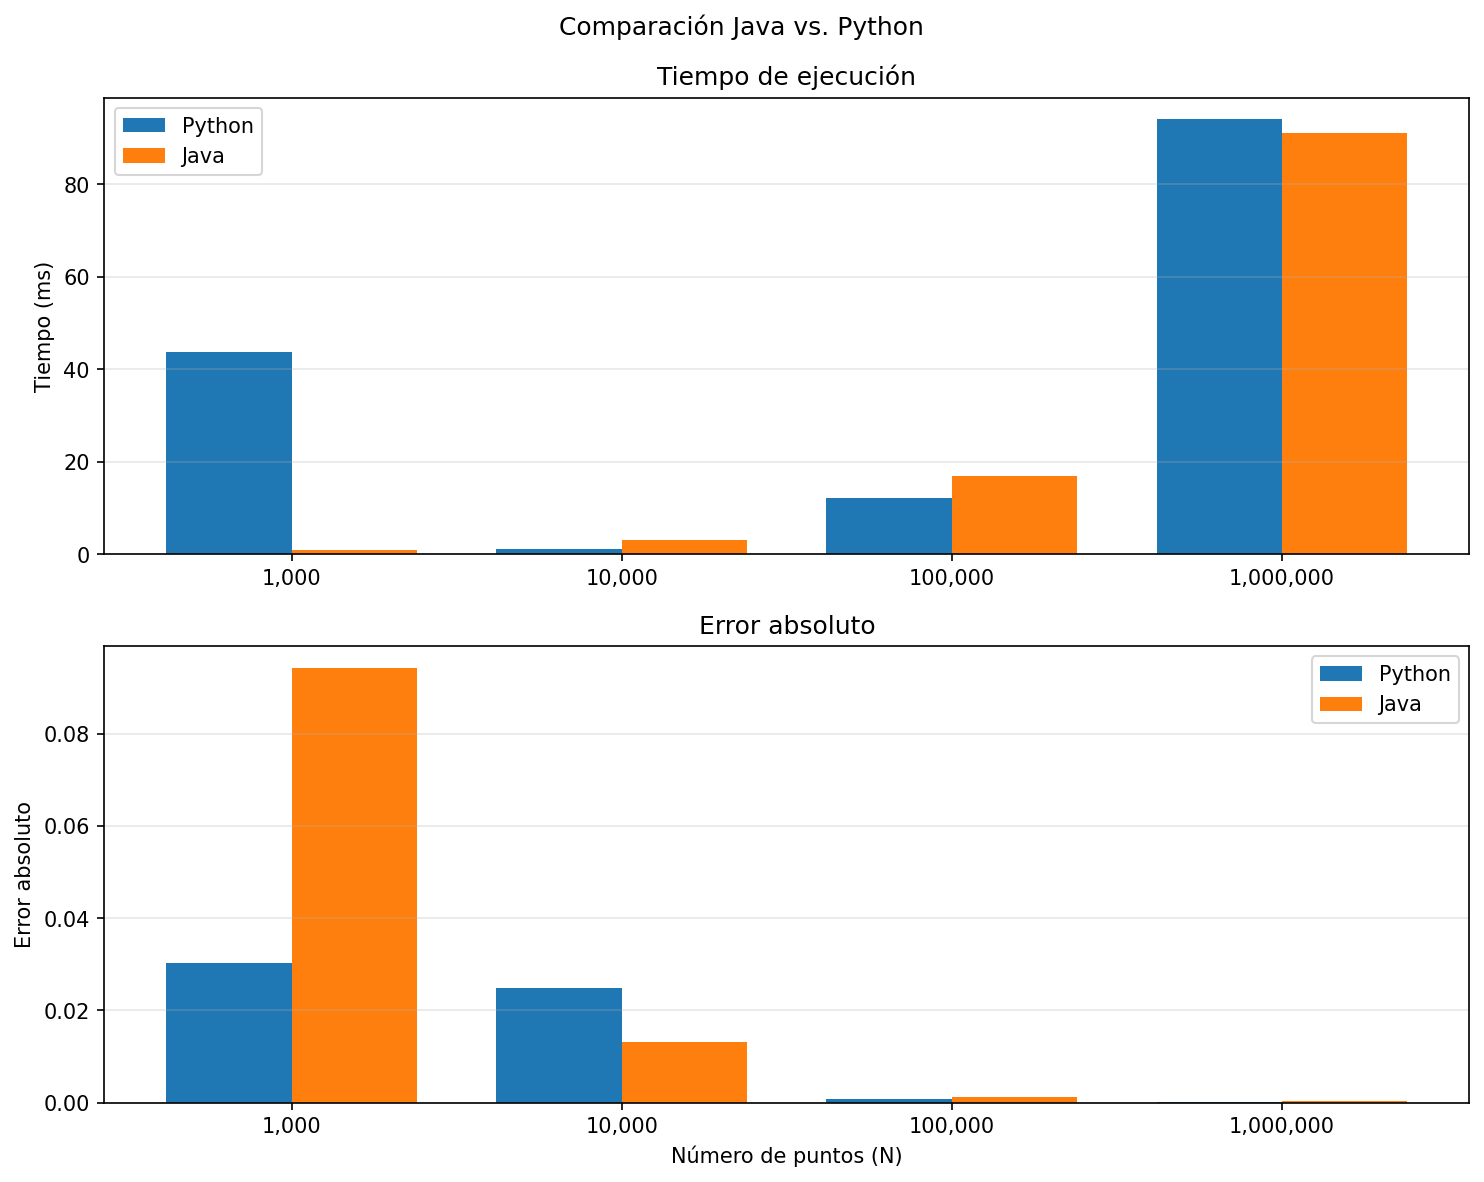
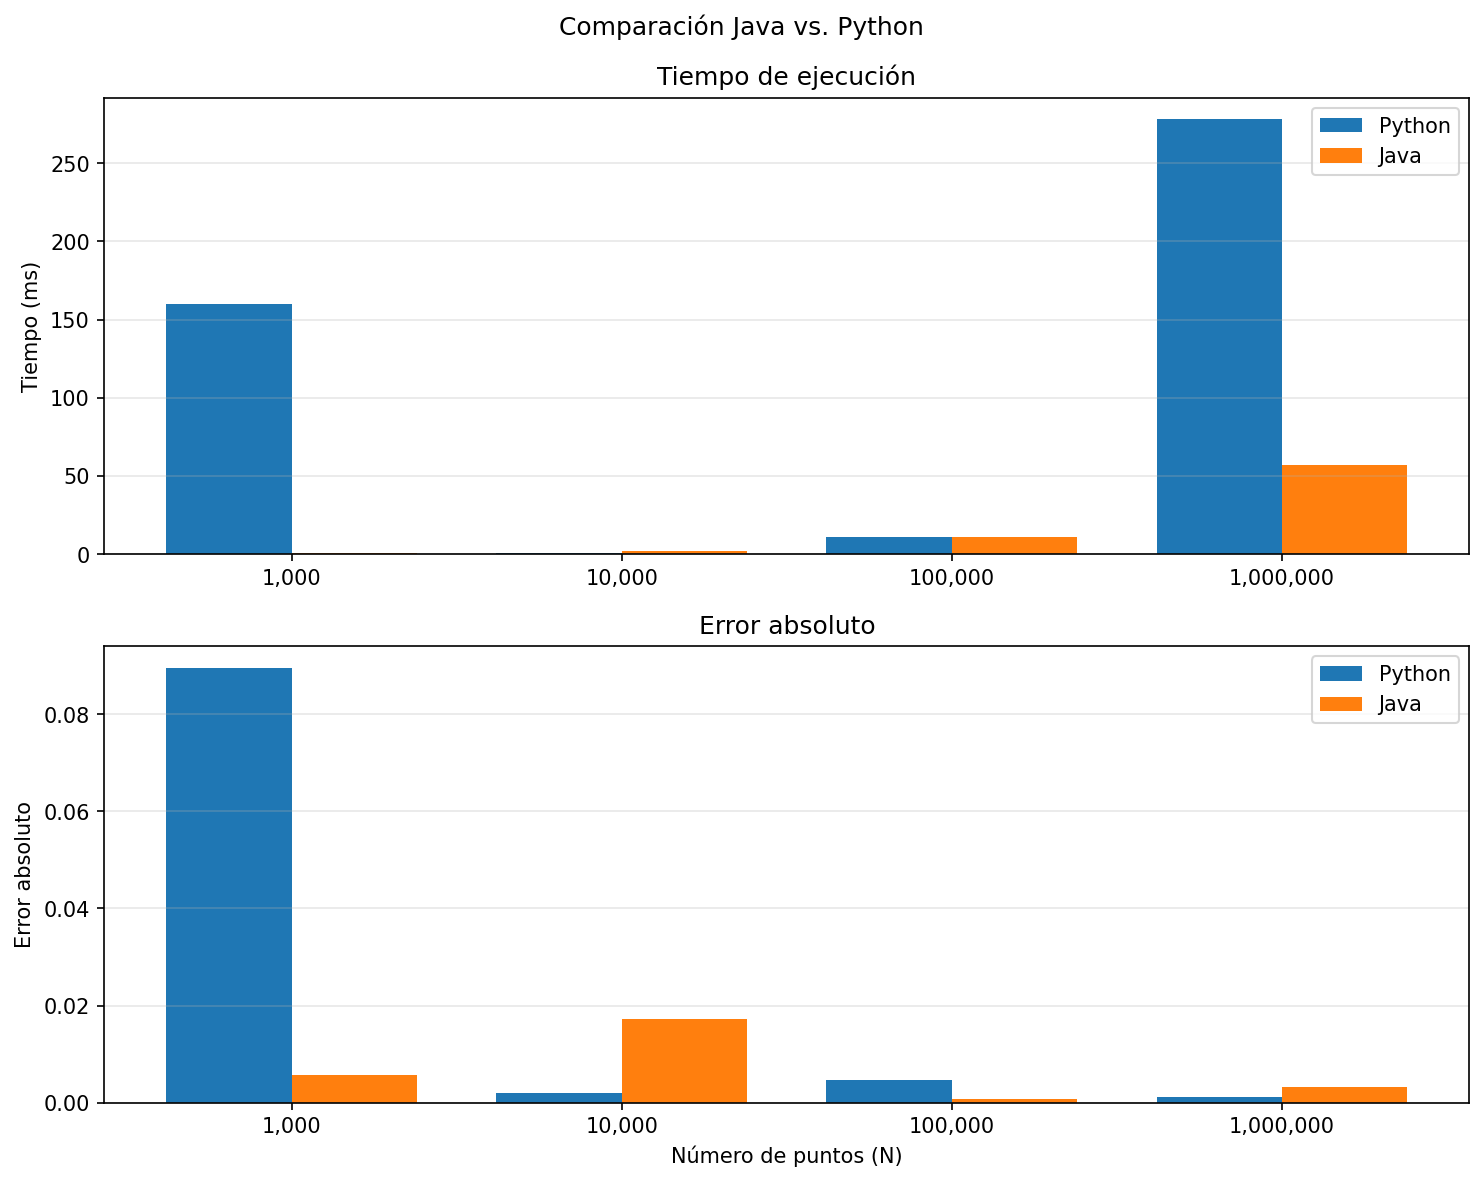
APE7-ArchivosActualizados

diff --git a/APE7/java/Main.java b/APE7/java/Main.java
@@ -1,35 +1,30 @@
 import controlador.MonteCarloController;
 import vista.MonteCarloView;
 
-import java.nio.file.Files;
-import java.nio.file.Path;
 import java.io.IOException;
 import java.nio.file.Paths;
 
 public class Main {
     public static void main(String[] args) throws IOException {
-        Path raizProyecto = encontrarRaizProyecto();
         MonteCarloController controlador = new MonteCarloController();
         MonteCarloController.ResultadoSimulacion[] resultados = controlador.procesarSimulaciones();
-        MonteCarloView vista = new MonteCarloView();
-        vista.mostrarResultados(resultados);
-        Path archivoCsv = raizProyecto.resolve(Paths.get("java", "output", "resultados_java.csv"));
-        Path directorioImg = raizProyecto.resolve("img");
-        vista.guardarResultadosCsv(resultados, archivoCsv);
-        System.out.println("Datos Java guardados en " + archivoCsv);
-        System.out.println("Gráfica Java guardada en " +
-                vista.generarGraficaConvergencia(resultados, directorioImg));
-    }
 
-    private static Path encontrarRaizProyecto() {
-        Path directorio = Paths.get("").toAbsolutePath();
-        while (directorio != null) {
-            if (Files.isDirectory(directorio.resolve("java"))
-                    && Files.isDirectory(directorio.resolve("python"))) {
-                return directorio;
-            }
-            directorio = directorio.getParent();
+        System.out.println("==========================================================================");
+        System.out.println(" N          | Pi Estimado      | Error Absoluto   | Tiempo Java (ms)     ");
+        System.out.println("==========================================================================");
+        for (MonteCarloController.ResultadoSimulacion resultado : resultados) {
+            System.out.printf("%-11d | %-16.6f | %-16.6f | %-20d%n",
+                    resultado.getN(),
+                    resultado.getPiEstimado(),
+                    resultado.getErrorAbsoluto(),
+                    resultado.getTiempoMs());
         }
-        throw new IllegalStateException("Ejecuta Main desde el proyecto APE7 o una de sus carpetas.");
+        System.out.println("==========================================================================");
+
+        MonteCarloView vista = new MonteCarloView();
+        vista.guardarResultadosCsv(resultados, Paths.get("output", "resultados_java.csv"));
+        System.out.println("Datos Java guardados en output\\resultados_java.csv");
+        System.out.println("Gráfica Java guardada en " +
+                vista.generarGraficaConvergencia(resultados, Paths.get("..", "img")));
     }
 }

diff --git a/APE7/java/vista/MonteCarloView.java b/APE7/java/vista/MonteCarloView.java
@@ -28,21 +28,6 @@ public class MonteCarloView {
     private static final Color ROJO = new Color(190, 55, 55);
     private static final double PI = Math.PI;
 
-    public void mostrarResultados(MonteCarloController.ResultadoSimulacion[] resultados) {
-        System.out.println("==========================================================================");
-        System.out.println(" N          | Pi Estimado      | Error Absoluto   | Tiempo Java (ms)     ");
-        System.out.println("==========================================================================");
-
-        for (MonteCarloController.ResultadoSimulacion resultado : resultados) {
-            System.out.printf("%-11d | %-16.6f | %-16.6f | %-20d%n",
-                    resultado.getN(),
-                    resultado.getPiEstimado(),
-                    resultado.getErrorAbsoluto(),
-                    resultado.getTiempoMs());
-        }
-        System.out.println("==========================================================================");
-    }
-
     public Path guardarResultadosCsv(
             MonteCarloController.ResultadoSimulacion[] resultados,
             Path archivoCsv) throws IOException {

diff --git a/APE7/README.md b/APE7/README.md
@@ -14,7 +14,7 @@ APE7/
 ├── requirements.txt
 ├── Documento/
 ├── Guia/
-├── img/                              # Se genera al ejecutar Java y Python
+├── img/
 │   ├── convergencia_python.png
 │   ├── convergencia_java.png
 │   └── comparativa_java_python.png
@@ -49,13 +49,12 @@ APE7/
 - `python/main.py`: ejecuta las simulaciones, imprime la tabla de Python y
   solicita a la vista la generación de las gráficas.
 - `java/Main.java`: inicia la simulación y delega la presentación en la vista
-  Java.
+  gráfica después de imprimir la tabla.
 - `java/controlador/MonteCarloController.java`: coordina las simulaciones Java
   y reúne sus resultados.
 - `java/modelo/MonteCarloModel.java`: genera puntos aleatorios y calcula la
   estimación de π, el error absoluto y el tiempo en Java.
-- `java/vista/MonteCarloView.java`: presenta en consola la tabla de resultados
-  generada por Java, guarda sus resultados en CSV y crea la gráfica de
+- `java/vista/MonteCarloView.java`: guarda los resultados Java en CSV y crea la gráfica de
   convergencia Java con Java2D.
 - `requirements.txt`: declara NumPy, Pandas y Matplotlib.
 
@@ -88,25 +87,31 @@ Se requiere Python 3 y un JDK instalado. Desde la raíz del proyecto:
 
 ### Java
 
+Con JDK 22 o superior, puedes ejecutar todo desde la carpeta `java` con el
+lanzador de archivos fuente. Compila las clases necesarias al vuelo, sin
+carpeta `out` ni archivos `.class` previos:
+
 ```powershell
-javac -encoding UTF-8 -d .\out .\java\Main.java .\java\controlador\MonteCarloController.java .\java\modelo\MonteCarloModel.java .\java\vista\MonteCarloView.java
-java -cp .\out Main
+Push-Location .\java
+java Main.java
+Pop-Location
 ```
 
-`Main` entrega los resultados del controlador a `MonteCarloView`. La vista
-imprime la tabla, crea `img/convergencia_java.png` y guarda
-`java/output/resultados_java.csv` para que Python pueda usar los mismos datos.
-Si estás en la carpeta `java`, primero recompila las clases antes de ejecutar
-`java -cp . Main`; el comando `java` no compila automáticamente los archivos
-`.java`:
+`Main` imprime la tabla y llama a `MonteCarloView`, que crea
+`img/convergencia_java.png` y guarda `java/output/resultados_java.csv`.
+
+Si prefieres usar `java -cp . Main` o tienes un JDK anterior, primero compila
+los fuentes desde `java` y luego ejecuta la clase:
 
 ```powershell
-javac -encoding UTF-8 Main.java controlador\MonteCarloController.java modelo\MonteCarloModel.java vista\MonteCarloView.java
+Push-Location .\java
+javac -encoding UTF-8 -d . Main.java controlador\MonteCarloController.java modelo\MonteCarloModel.java vista\MonteCarloView.java
 java -cp . Main
+Pop-Location
 ```
-
-También puedes compilar desde la raíz con el primer comando y ejecutar con
-`java -cp .\out Main`.
+El archivo `controlador/MonteCarloController$ResultadoSimulacion.class` también
+lo genera Java porque `ResultadoSimulacion` es una clase anidada del
+controlador; es necesaria y no debe borrarse por separado.
 
 ### Python y comparación
 
@@ -125,70 +130,53 @@ muestra esperados, Python informa el error.
 
 ## Resultados, gráficas y conclusiones
 
-La tabla muestra una ejecución Java seguida de una ejecución Python. Las
-gráficas Java se generan con los resultados de esa ejecución Java, y la
-comparativa consume el CSV producido por Java. Los tiempos se expresan en
-milisegundos. Como ambos programas usan muestras aleatorias, al volver a
-ejecutarlos se actualizan las gráficas y los valores de la tabla pueden cambiar.
+La tabla corresponde a una ejecución de Java seguida por Python. Las imágenes
+Java y Python se generan con esos resultados de ejecución; por la naturaleza
+aleatoria del método, una nueva ejecución puede producir valores y tiempos
+distintos.
 
 | N | π estimado Python | Error Python | Tiempo Python (ms) | π estimado Java | Error Java | Tiempo Java (ms) |
 |---:|---:|---:|---:|---:|---:|---:|
-| 1,000 | 3.156000 | 0.014407 | 51.48 | 3.120000 | 0.021593 | 2 |
-| 10,000 | 3.165200 | 0.023607 | 0.98 | 3.140800 | 0.000793 | 3 |
-| 100,000 | 3.141520 | 0.000073 | 12.85 | 3.140760 | 0.000833 | 19 |
-| 1,000,000 | 3.140332 | 0.001261 | 83.35 | 3.140064 | 0.001529 | 109 |
+| 1,000 | 3.052000 | 0.089593 | 160.03 | 3.136000 | 0.005593 | 1 |
+| 10,000 | 3.139600 | 0.001993 | 1.05 | 3.158800 | 0.017207 | 2 |
+| 100,000 | 3.146280 | 0.004687 | 11.33 | 3.142360 | 0.000767 | 11 |
+| 1,000,000 | 3.140472 | 0.001121 | 277.99 | 3.144736 | 0.003143 | 57 |
 
 ### Convergencia en Python
 
-En esta ejecución el error Python fue menor con `N = 100000` y subió para
-`N = 1000000`. El método converge en términos probabilísticos, pero no
-garantiza que cada aumento de la muestra mejore la estimación observada.
+La gráfica presenta la estimación de π y su error absoluto para los cuatro
+tamaños de muestra. En esta ejecución, el menor error se obtuvo con
+`N = 1000000`.
 
-![Convergencia de la estimación de π y error absoluto en Python](img/convergencia_python.png)
+![Convergencia de Monte Carlo en Python](img/convergencia_python.png)
 
 ### Convergencia en Java
 
-La vista Java genera esta gráfica al ejecutar `Main`, con las estimaciones y
-errores calculados por esa ejecución. En esta corrida, el menor error se obtuvo
-con `N = 10000`.
+La vista Java genera esta gráfica junto con la simulación. En esta ejecución,
+el menor error Java se obtuvo con `N = 100000`.
 
-![Convergencia de la estimación de π y error absoluto en Java](img/convergencia_java.png)
+![Convergencia de Monte Carlo en Java](img/convergencia_java.png)
 
-### Comparación de tiempos y errores
+### Comparación Java-Python
 
-En los valores de esta tabla, Java presentó menor tiempo para `N = 1000`;
-Python fue más rápido para `N = 10000`, `100000` y `1000000`.
-Estas mediciones son de una sola ejecución y no constituyen una comparación
-controlada: Python usa operaciones vectorizadas de NumPy y Java recorre los
-puntos en un bucle.
+Java fue más rápido para `N = 1000`, `100000` y `1000000`; Python fue más
+rápido para `N = 10000`. Son mediciones de una sola ejecución y pueden variar
+según el equipo y las diferencias entre el bucle Java y las operaciones
+vectorizadas de NumPy.
 
-![Comparación de tiempos de ejecución y errores absolutos entre Java y Python](img/comparativa_java_python.png)
+![Comparación de tiempos y errores de Java y Python](img/comparativa_java_python.png)
 
 ### Conclusiones
 
-- La simulación aproxima π contando los puntos que caen dentro del cuarto de
-  círculo y aplica correctamente la fórmula de Monte Carlo.
-- En esta ejecución, el menor error Python se obtuvo con `N = 100000`, y el
-  menor error Java con `N = 10000`. El error no disminuye necesariamente en
-  cada tamaño; el muestreo es aleatorio.
-- Java tuvo menor tiempo para `N = 1000`, y Python para los otros tres tamaños.
-  Los tiempos pueden variar por el equipo, el estado del proceso y las
-  diferencias de implementación entre el bucle Java y NumPy.
-- Python y Java generan muestras independientes, por lo que no se espera que
-  coincidan punto por punto. Para exigir la misma secuencia, habría que definir
-  y compartir explícitamente el algoritmo generador y su semilla.
-
-### Nota sobre la guía
-
-La metodología de la guía solicita estimar π mediante Monte Carlo, que es lo
-que implementa este proyecto. Sin embargo, un criterio de la rúbrica menciona
-el modelo de colas M/M/1, que no aparece en el procedimiento descrito y no está
-implementado aquí. Si la evaluación exige literalmente M/M/1, se necesita
-aclarar ese alcance con el docente; no es el modelo de esta práctica de
-estimación de π.
+- Al aumentar la muestra, la estimación suele acercarse a π, pero el error no
+  tiene que disminuir en cada paso.
+- En esta ejecución, el menor error Python se observó en `N = 1000000` y el
+  menor error Java en `N = 100000`.
+- La comparación de tiempos es orientativa; los programas usan estrategias
+  distintas y las mediciones dependen del entorno de ejecución.
 
 ## Pruebas
 
-No se incluyen pruebas automatizadas en el proyecto. La ejecución de
-Java seguida de `python .\python\main.py` valida ambas simulaciones, la
-transferencia de resultados mediante CSV y la creación de las tres imágenes.
+La compilación y ejecución Java seguida de `python .\python\main.py` comprueba
+el flujo de ambas simulaciones, el CSV compartido y la generación de las tres
+imágenes.
